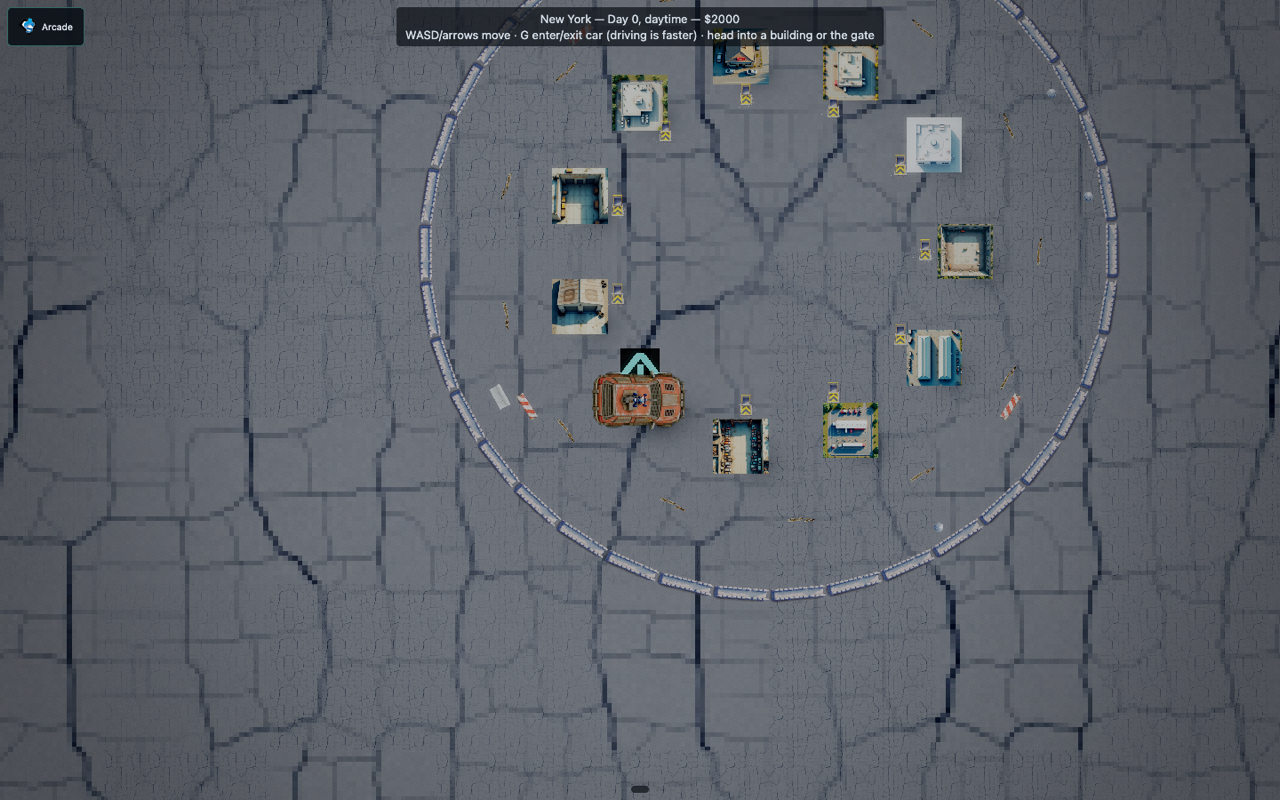
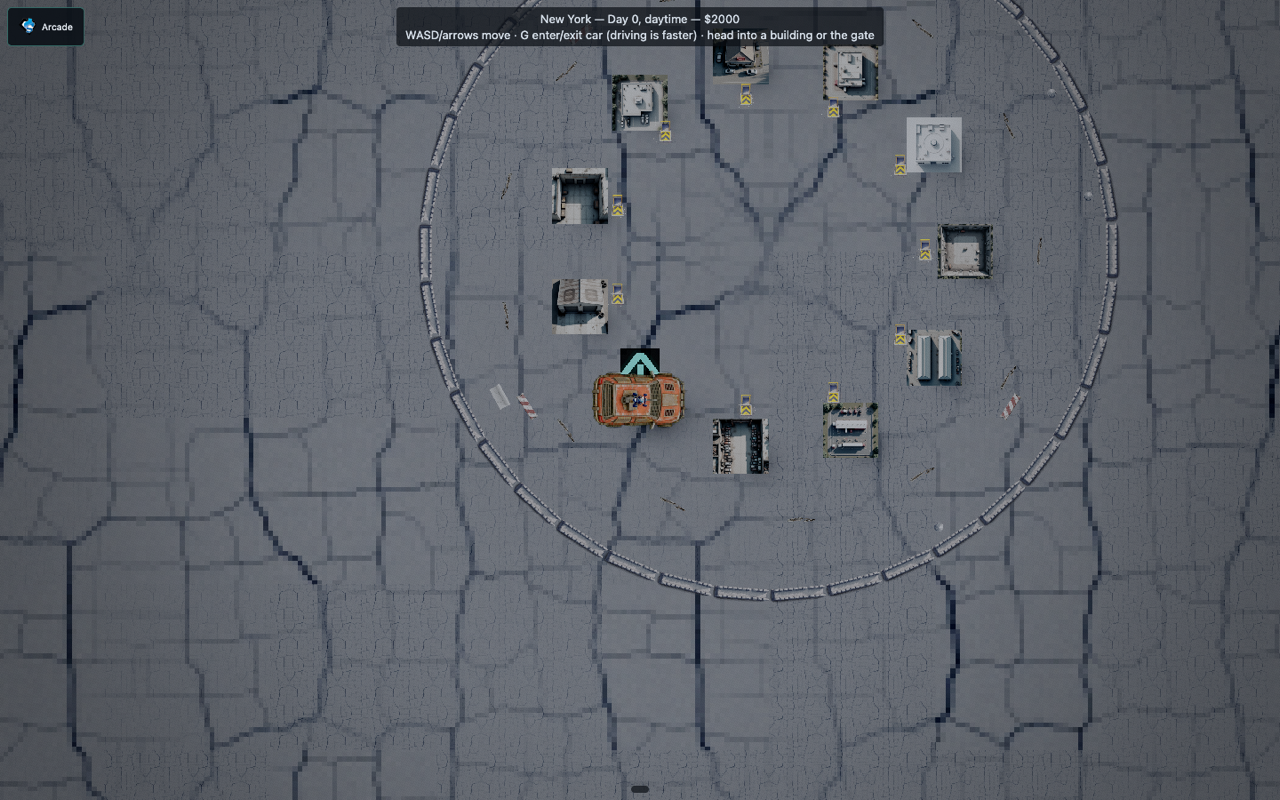
fix(city): the palette grade spent the value separation 🏚
Iteration 17. Reviewer: qwen/qwen3.6-plus.

- "The gray building sprites lack drop shadows or distinct outlines against the
  similar-toned blue-gray ground, making them look flat and hard to distinguish as
  obstacles ... the player cannot instantly parse safe driving paths versus
  collidable structures."

  True, and it is the bill for iteration 16. Grading the buildings toward the
  ground's cool slate fixed the colour cohesion by spending the VALUE separation
  the collage used to have. Measured on the real frame rather than eyeballed:
  the building/ground luminance gap was 20 on one building and 4 on another —
  separation that depended on whatever value a given piece of source art
  happened to carry, which is exactly the "look flat" report.

  Fixed at the source instead of per-asset. The contact shadow was already being
  emitted, but at softness 0.8 / opacity 0.42 a big soft blob under a building
  never registered against a mid-grey ground. Now 0.3 / 0.62, so EVERY building
  gets a consistent tight dark contact and legibility no longer depends on the
  art. Prop grade tone 0.42 -> 0.5 to seat them slightly below the ground value.

  Recorded, because it generalises: a visual fix that trades one axis for another
  WILL be caught by the next reviewer. Grade for cohesion, then RE-MEASURE
  separation — the two are not independent, and I shipped a change whose whole
  point was to improve one axis without checking what it cost the other.
[…]

diff --git a/src/ui/builder.ts b/src/ui/builder.ts
@@ -138,7 +138,14 @@ export type BuilderRow =
   | { readonly kind: 'plant'; readonly label: string; readonly valueLabel: string }
   | { readonly kind: 'tire'; readonly label: string; readonly valueLabel: string }
   | { readonly kind: 'armor'; readonly label: string; readonly valueLabel: string; readonly facing: Facing }
-  | { readonly kind: 'weapon'; readonly label: string; readonly valueLabel: string; readonly slot: number }
+  | {
+      readonly kind: 'weapon';
+      readonly label: string;
+      readonly valueLabel: string;
+      readonly slot: number;
+      /** Marks the first row of the weapon group so it can carry a section edge. */
+      readonly groupStart?: boolean;
+    }
   | { readonly kind: 'facing'; readonly label: string; readonly valueLabel: string; readonly slot: number }
   | { readonly kind: 'ammo'; readonly label: string; readonly valueLabel: string; readonly slot: number }
   | { readonly kind: 'confirm'; readonly label: string; readonly valueLabel: string };
@@ -163,7 +170,20 @@ export function computeRows(state: BuilderState): BuilderRow[] {
 
   state.weaponSlots.forEach((mounted, slot) => {
     if (mounted === null) {
-      rows.push({ kind: 'weapon', label: `Weapon ${slot + 1}`, valueLabel: '(empty)', slot });
+      // `groupStart` is presentation-only. The rows are addressed by index (the
+      // selected row IS an index into this array, and the hint line tells the
+      // player to type 0-9), so the ten weapon rows are NOT collapsed into a
+      // summary — a review called that list "a debug console or spreadsheet",
+      // but deleting rows would break selection and mounting. Instead the group
+      // gets a visible edge so it reads as a loadout with CAPACITY rather than
+      // as ten identical rows of leftover data, and the empty ones recede.
+      rows.push({
+        kind: 'weapon',
+        label: `Weapon ${slot + 1}`,
+        valueLabel: '(empty)',
+        slot,
+        ...(slot === 0 ? { groupStart: true } : {}),
+      });
       return;
     }
     const def = getWeapon(mounted.weaponId);
@@ -667,6 +687,8 @@ function buildLeftPane(state: BuilderState, handlers: BuilderRowHandlers): HTMLE
     const li = document.createElement('li');
     li.className = `sm-builder__row sm-builder__row--${row.kind}`;
     if (row.kind === 'facing' || row.kind === 'ammo') li.classList.add('sm-builder__row--sub');
+    if (row.kind === 'weapon' && row.groupStart === true) li.classList.add('sm-builder__row--group-start');
+    if (row.kind === 'weapon' && row.valueLabel === '(empty)') li.classList.add('sm-builder__row--empty');
     if (index === state.selectedIndex) li.classList.add('sm-builder__row--selected');
     // Per-row closures over `index`, not a delegated container listener and
     // not `dataset`/`closest` lookups: the unit-test fake DOM harness (see

diff --git a/src/ui/city-view.ts b/src/ui/city-view.ts
@@ -208,8 +208,24 @@ const SHADOW_GROWTH = 1.9;
  * was smaller than the shadow's own margin, so almost none of it was visible.
  */
 const SHADOW_OFFSET_M: Vec2 = { x: 1.0, y: -0.9 };
-const BUILDING_SHADOW_SOFTNESS = 0.8;
-const BUILDING_SHADOW_OPACITY = 0.42;
+/**
+ * Contact shadow for static architecture.
+ *
+ * These were soft (0.8) and faint (0.42) because a big soft blob under every
+ * building muddied the map. But once iteration 16 graded the buildings toward
+ * the ground's cool slate to stop them reading as a collage of unrelated source
+ * art, the grade took away the VALUE separation too — and a review immediately
+ * reported the result: "the gray building sprites lack drop shadows or distinct
+ * outlines against the similar-toned blue-gray ground, making them look flat".
+ *
+ * Measured on the real frame, the old values gave a building/ground luminance
+ * gap of 20 on one building and 4 on another — i.e. separation that depended on
+ * whatever value a given piece of source art happened to have. Tightening the
+ * falloff and raising the peak puts a consistent dark contact under EVERY
+ * building, so legibility no longer rides on the art.
+ */
+const BUILDING_SHADOW_SOFTNESS = 0.3;
+const BUILDING_SHADOW_OPACITY = 0.62;
 const VEHICLE_SHADOW_SOFTNESS = 0.7;
 const VEHICLE_SHADOW_OPACITY = 0.5;
 
@@ -424,7 +440,7 @@ function shadowInstance(
  * then pull the remainder toward the ground's cool slate. They keep their own
  * light-to-dark modelling, which is what actually reads as "building".
  */
-const CITY_PROP_GRADE = { desaturate: 0.55, tone: 0.42 } as const;
+const CITY_PROP_GRADE = { desaturate: 0.55, tone: 0.5 } as const;
 
 function spriteInstance(
   frame: { readonly atlasIndex: number; readonly uv: SpriteInstanceInput['uvRect'] },

diff --git a/src/ui/builder.css b/src/ui/builder.css
@@ -128,6 +128,24 @@
   font-size: var(--ui-text-sm);
 }
 
+/* A section edge, so ten weapon rows read as ONE loadout with capacity
+ * instead of ten identical rows of leftover data — a review called the list
+ * "a debug console or spreadsheet". The rows themselves are NOT collapsed:
+ * they are addressed by index, so removing any would break both selection and
+ * mounting a weapon into that slot. */
+.sm-builder__row--group-start {
+  margin-top: var(--ui-space-4);
+  padding-top: var(--ui-space-3);
+  border-top: 1px solid var(--ui-line);
+}
+
+/* Unfilled slots recede so the fitted weapons are what the eye lands on. The
+ * label keeps full contrast — it is the part that names the slot. */
+.sm-builder__row--empty .sm-builder__row-value {
+  color: var(--ui-ink-dim);
+  font-style: italic;
+}
+
 .sm-builder__row--confirm {
   margin-top: var(--ui-space-5);
   /* A PRIMARY ACTION, not another data row.

diff --git a/.opencode/ralph-loop.local.md b/.opencode/ralph-loop.local.md
@@ -1,6 +1,6 @@
 ---
 active: true
-iteration: 16
+iteration: 17
 maxIterations: 100
 sessionId: ses_f14a7ff23ffeCvOeqyAPPjegV6
 ---
@@ -9,7 +9,7 @@ lets do a infiniate improving loop each time ask a random state of the art visio
 
 ## Log
 
-Reviewers asked (16 of 82 vision models):
+Reviewers asked (17 of 82 vision models):
 1. google/gemini-3.8-flash      -> title wordmark, constructor (3 bugs incl. one I missed), city motorway-through-wall
 2. openai/gpt-5.4-mini         -> radar instrument, condition dashboard, player/opponent contrast, title hierarchy
 3. qwen/qwen3.5-122b-a10b      -> road lane markings (carried x2), preview/menu contrast, radar rings (claim WRONG - checked)
@@ -157,6 +157,33 @@ TOOLING - the review harness got audited by its own failure this round:
        models forever while looking perfectly healthy. The only safe response to
        "I do not know what has been asked" is to stop.
      - 75 models in the pool, 61 not yet asked.
+
+17. qwen/qwen3.6-plus -> 2 REAL, one of them a REGRESSION I caused last round:
+     - "The gray building sprites lack drop shadows or distinct outlines against
+       the similar-toned blue-gray ground, making them look flat and hard to
+       distinguish as obstacles." TRUE, and it is the bill for iteration 16: the
+       grade fixed colour cohesion by pulling the buildings toward the ground's
+       slate, and in doing so spent the VALUE separation the collage used to
+       have. Measured on the real frame, the building/ground luminance gap was
+       20 on one building and 4 on another - separation that depended on
+       whatever value a given piece of source art happened to carry. Fixed at
+       the source rather than per-asset: the contact shadow was already there
+       but soft (0.8) and faint (0.42), so it never registered. Tightened to
+       0.3/0.62 so EVERY building gets a consistent dark contact and legibility
+       stops riding on the art. Grade tone 0.42 -> 0.5.
+       THE LESSON: a visual fix that trades one axis for another will be caught
+       by the NEXT reviewer. Grade cohesion, then re-measure separation - do
+       not assume the two are independent.
+     - "ten rows of text saying (empty) looks like a debug console or
+       spreadsheet." Real, but the rows are ADDRESSED BY INDEX (selection is an
+       index into the same array, and the hint tells the player to type 0-9), so
+       collapsing them would break selection and mounting. Fixed without moving
+       a row: a section edge above Weapon 1 makes the block read as one loadout
+       with CAPACITY, and unfilled values now recede in dim italic so fitted
+       weapons are what the eye lands on.
+     FALSE: radar low contrast (9th report on the same element); logo kerning
+       (the wordmark is uniform tracking); preview disconnected from the car
+       (the schematic is the vehicle - zones, wheels, dimensions all shown).
 
 DEFERRED (real, documented, not bugs):
 - Ground blockiness: NEAREST sampler is REQUIRED (no atlas gutters, linear would
